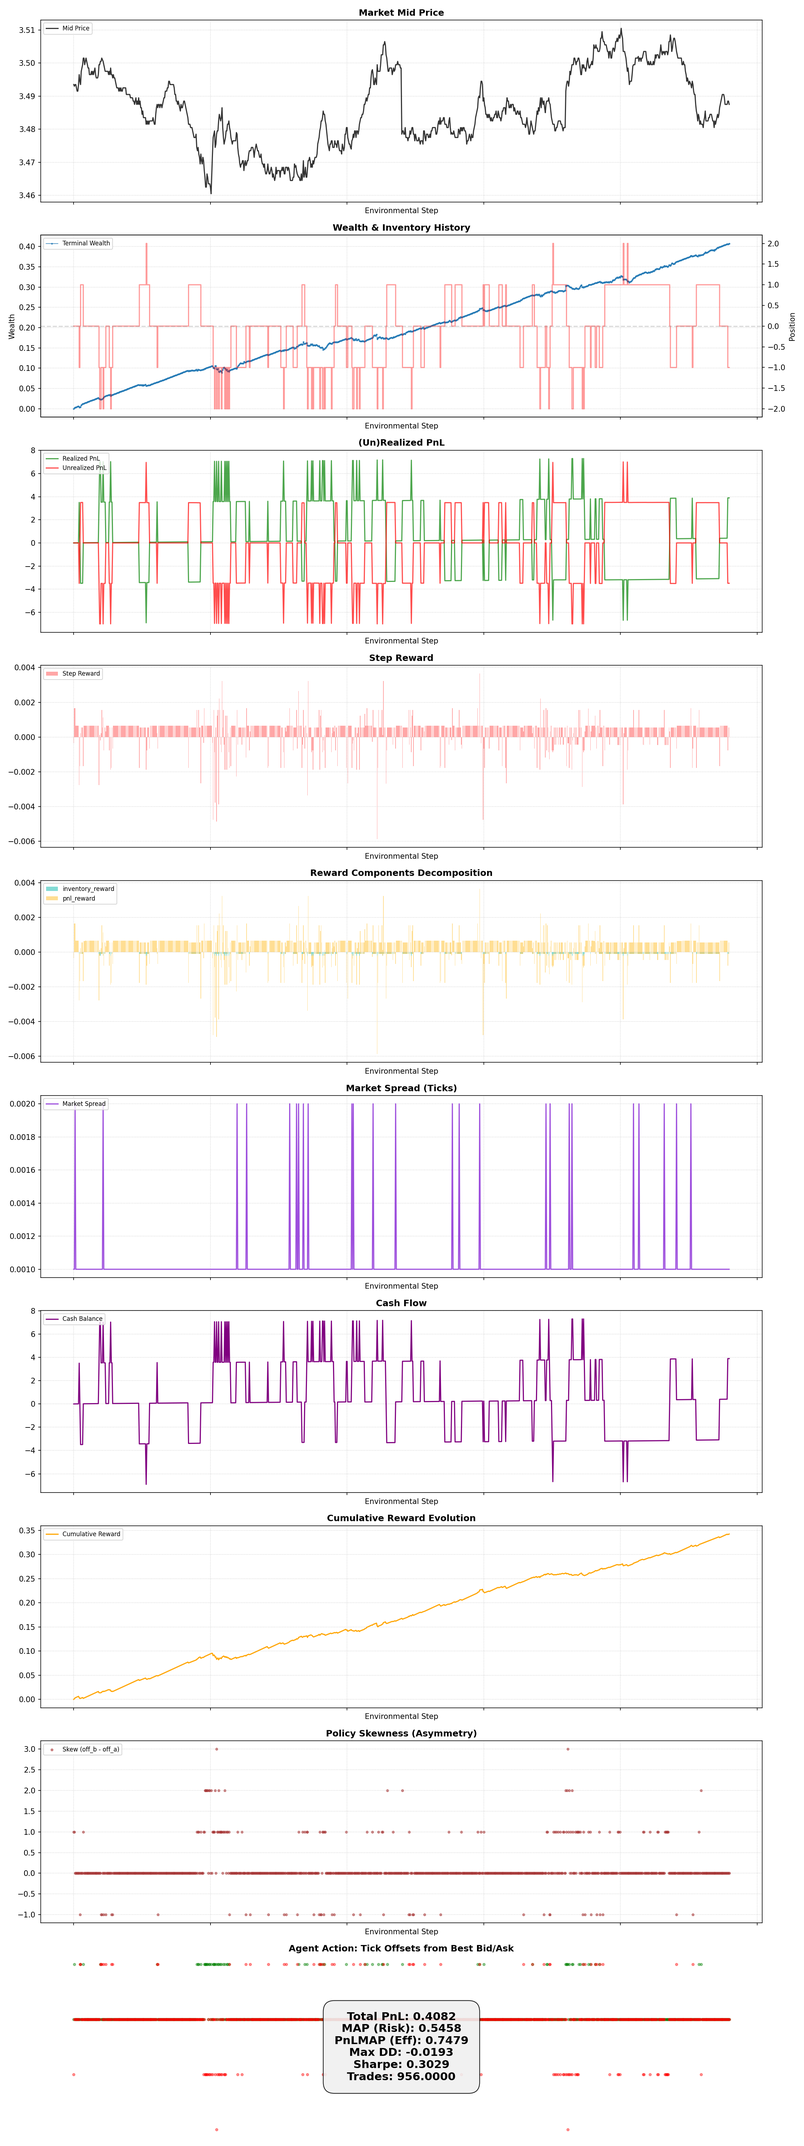
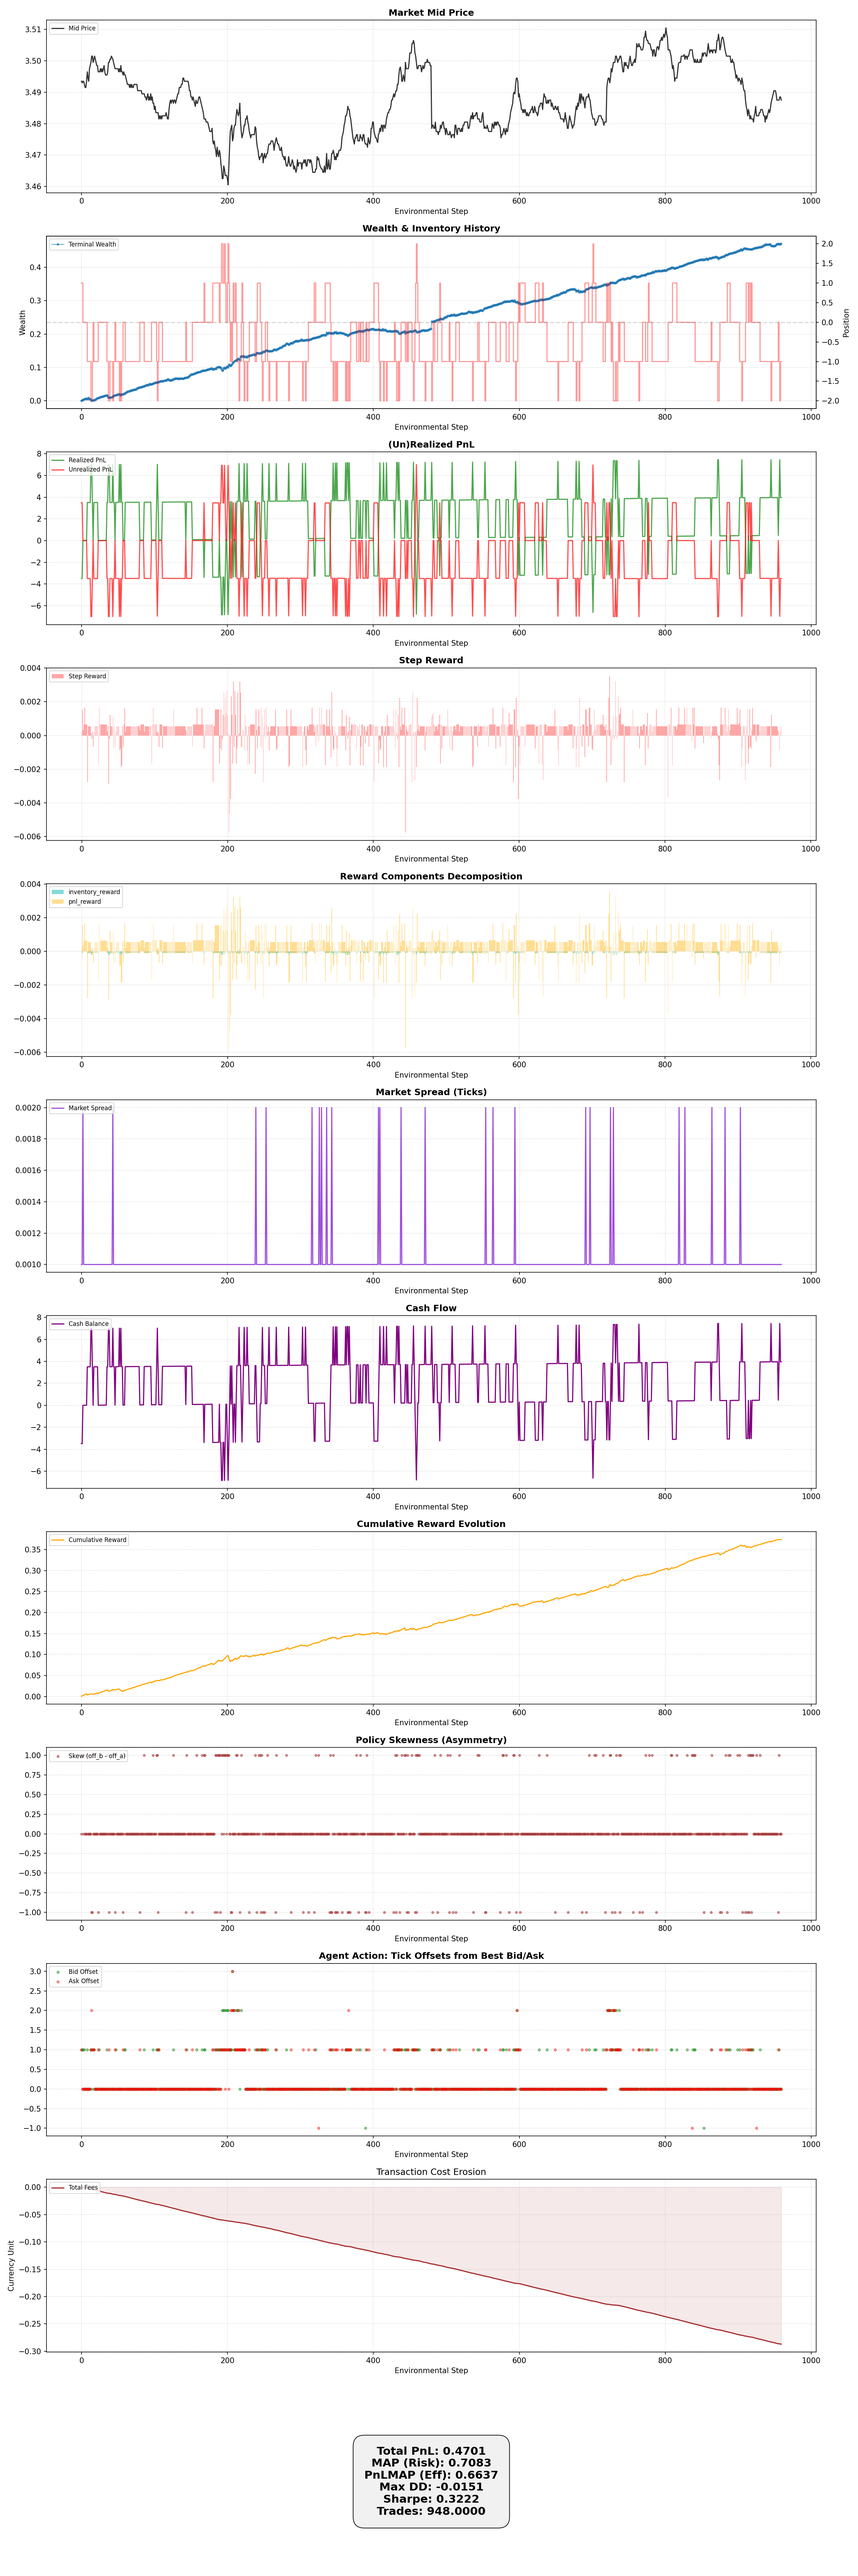
i fixed plot issue and add adversial drl agent

diff --git a/pipeline/agent_trainer.py b/pipeline/agent_trainer.py
@@ -76,9 +76,11 @@ def load_signals_bundle(symbol, date_list, m1, m2, scaler):
             np.concatenate(mids), np.concatenate(asks), np.concatenate(bids),
             np.concatenate(buy_maxs), np.concatenate(sell_mins))
 
-def run_agent_training_pipeline(symbol, sgu_train_range, PHI=0.001, TICK_SIZE=0.01, fee_rate=0.00005, USE_FEE=False):
+def run_agent_training_pipeline(symbol, sgu_train_range, PHI=0.001, TICK_SIZE=0.01, fee_rate=0.00005, USE_FEE=False, USE_ARL=True):
 
     checkpoint_dir = f"checkpoints/{symbol}"
+    if USE_FEE == False:
+        fee_rate = 0.0
 
     # Assets are locked based on the SGU training session
     m1 = SGU1()
@@ -127,7 +129,7 @@ def run_agent_training_pipeline(symbol, sgu_train_range, PHI=0.001, TICK_SIZE=0.
     }
 
     # Training engine execution
-    engine = DRLEngine(pop_size=50, sigma=0.05, phi=PHI, tick_size=TICK_SIZE, save_dir=checkpoint_dir)
+    engine = DRLEngine(pop_size=50, sigma=0.05, phi=PHI, tick_size=TICK_SIZE, save_dir=checkpoint_dir, use_arl=USE_ARL)
     best_agent, _ = engine.train(train_bundle, val_bundle, train_stats, generations=100)
 
     # Blind Test on the last 15% of S3
@@ -143,14 +145,14 @@ def run_agent_training_pipeline(symbol, sgu_train_range, PHI=0.001, TICK_SIZE=0.
             
             raw_act = best_agent.forward(n_s).squeeze().cpu().numpy()
             scaled_act = np.round(raw_act * 5).astype(int) 
-            reward, info = env.step(scaled_act, mid[t], ask[t], bid[t], buy_max[t], sell_min[t])
+            reward, info = env.step(scaled_act, mid[t], ask[t], bid[t], buy_max[t], sell_min[t], adv_action=None)
             recorder.record(t, mid[t], ask[t], bid[t], scaled_act, reward, env.inventory, env.cash, info)
 
     res_df = recorder.to_dataframe()
     metrics = StrategyAnalytics(res_df).summary_dict
     report_path = f"output/{symbol}/phi_{PHI}_S3_TEST.png"
     os.makedirs(os.path.dirname(report_path), exist_ok=True)
-    BacktestVisualizer.plot_professional_report(res_df, metrics, save_path=report_path)
+    BacktestVisualizer.plot_professional_report(res_df, metrics, save_path=report_path, show_fees=USE_FEE)
     print(f">>> Complete. Report saved to: {report_path}")
 
 

diff --git a/analytics/mm_analyzer.py b/analytics/mm_analyzer.py
@@ -58,15 +58,16 @@ class StrategyAnalytics:
 class BacktestVisualizer:
     @staticmethod
     def plot_professional_report(df, metrics, save_path='report.png', show_fees=False):
-        n_subplots = 11 if show_fees else 10
-        fig, axes = plt.subplots(n_subplots, 1, figsize=(15, 4 * n_subplots), sharex=True)
+        n_base_plots = 10
+        n_rows = n_base_plots + (1 if show_fees else 0) + 1
+        fig, axes = plt.subplots(n_rows, 1, figsize=(16, 4 * n_rows))
 
         # 1. Mid Price
         axes[0].plot(df['step'], df['mid'], color='black', alpha=0.8, label='Mid Price')
         axes[0].set_title('Market Mid Price', fontweight='bold')
 
         # 2. PnL & Position
-        ax2_pnl = axes[1].plot(df['step'], df['wealth'], color='#1f77b4', marker='*', markersize=2, 
+        ax2_pnl = axes[1].plot(df['step'], df['wealth'], color='#1f77b4', marker='*', markersize=3, 
                                linewidth=1, alpha=0.7, label='Terminal Wealth')
         axes[1].set_title('Wealth & Inventory History', fontweight='bold')
         axes[1].set_ylabel('Wealth')
@@ -119,9 +120,9 @@ class BacktestVisualizer:
         if show_fees:
             
             ax_fee = axes[10]
-            ax_fee.plot(df['step'], df['cum_fees'], color='brown', label='Cumulative Fees Paid')
-            ax_fee.fill_between(df['step'], 0, df['cum_fees'], color='brown', alpha=0.1)
-            ax_fee.set_title("Transaction Cost Erosion (Cumulative Fees)")
+            ax_fee.plot(df['step'], -df['cum_fees'], color='brown', label='Total Fees')
+            ax_fee.fill_between(df['step'], 0, -df['cum_fees'], color='brown', alpha=0.1)
+            ax_fee.set_title("Transaction Cost Erosion")
             ax_fee.set_ylabel("Currency Unit")
             ax_fee.legend(loc='upper left')
             ax_fee.grid(True, alpha=0.3)

diff --git a/models/model.py b/models/model.py
@@ -3,7 +3,7 @@ import torch.nn as nn
 import numpy as np
 
 class TradingPolicy(nn.Module):
-
+    """DRL Agent"""
     def __init__(self, state_dim=3, action_dim=2, hidden_dim=32):
         super(TradingPolicy, self).__init__()
         self.net = nn.Sequential(
@@ -35,6 +35,27 @@ class TradingPolicy(nn.Module):
             p.data.copy_(weights[current_idx:current_idx + numel].view(p.data.shape).to(p.device))
             current_idx += numel
 
+class AdversaryPolicy(nn.Module):
+    """Adversial DRL Agent"""
+    def __init__(self, input_size=3, hidden_size=12):
+        super().__init__()
+        self.fc = nn.Sequential(
+            nn.Linear(input_size, hidden_size),
+            nn.ReLU(),
+            nn.Linear(hidden_size, 2), # two noises：delta_a, delta_b
+            nn.Tanh()
+        )
+
+    def forward(self, x):
+        return self.fc(x)
+    
+    def set_weights(self, weights):
+        current_idx = 0
+        for p in self.parameters():
+            numel = p.data.numel()
+            p.data.copy_(weights[current_idx:current_idx + numel].view(p.data.shape).to(p.device))
+            current_idx += numel
+    
 class NeuroEvolution:
     def __init__(self, population_size=50, sigma=0.05):
         self.pop_size = population_size

diff --git a/main.py b/main.py
@@ -1,7 +1,7 @@
 from pipeline.sgu_trainer import run_sgu_training
 from pipeline.agent_trainer import run_agent_training_pipeline
 
-def execute(symbol="688981", PHI=0.001, TICK_SIZE=0.01, fee_rate=0.0003, use_fee=False):
+def execute(symbol="688981", PHI=0.001, TICK_SIZE=0.01, fee_rate=0.0003, use_fee=False, use_arl=False):
 
     run_sgu_training(
         symbol=symbol,
@@ -15,10 +15,11 @@ def execute(symbol="688981", PHI=0.001, TICK_SIZE=0.01, fee_rate=0.0003, use_fee
         PHI=PHI,
         TICK_SIZE=TICK_SIZE,
         fee_rate=fee_rate,
-        USE_FEE=use_fee
+        USE_FEE=use_fee,
+        USE_ARL=use_arl
     )
 
 
 if __name__ == '__main__':
     # execute(symbol='688981', PHI=0.005, TICK_SIZE=0.01, fee_rate=0.0, use_fee=False)
-    execute(symbol='510300', PHI=0.0001, TICK_SIZE=0.001, fee_rate=0.00005, use_fee=True)
+    execute(symbol='510300', PHI=0.0001, TICK_SIZE=0.001, fee_rate=0.00005, use_fee=True, use_arl=False)
